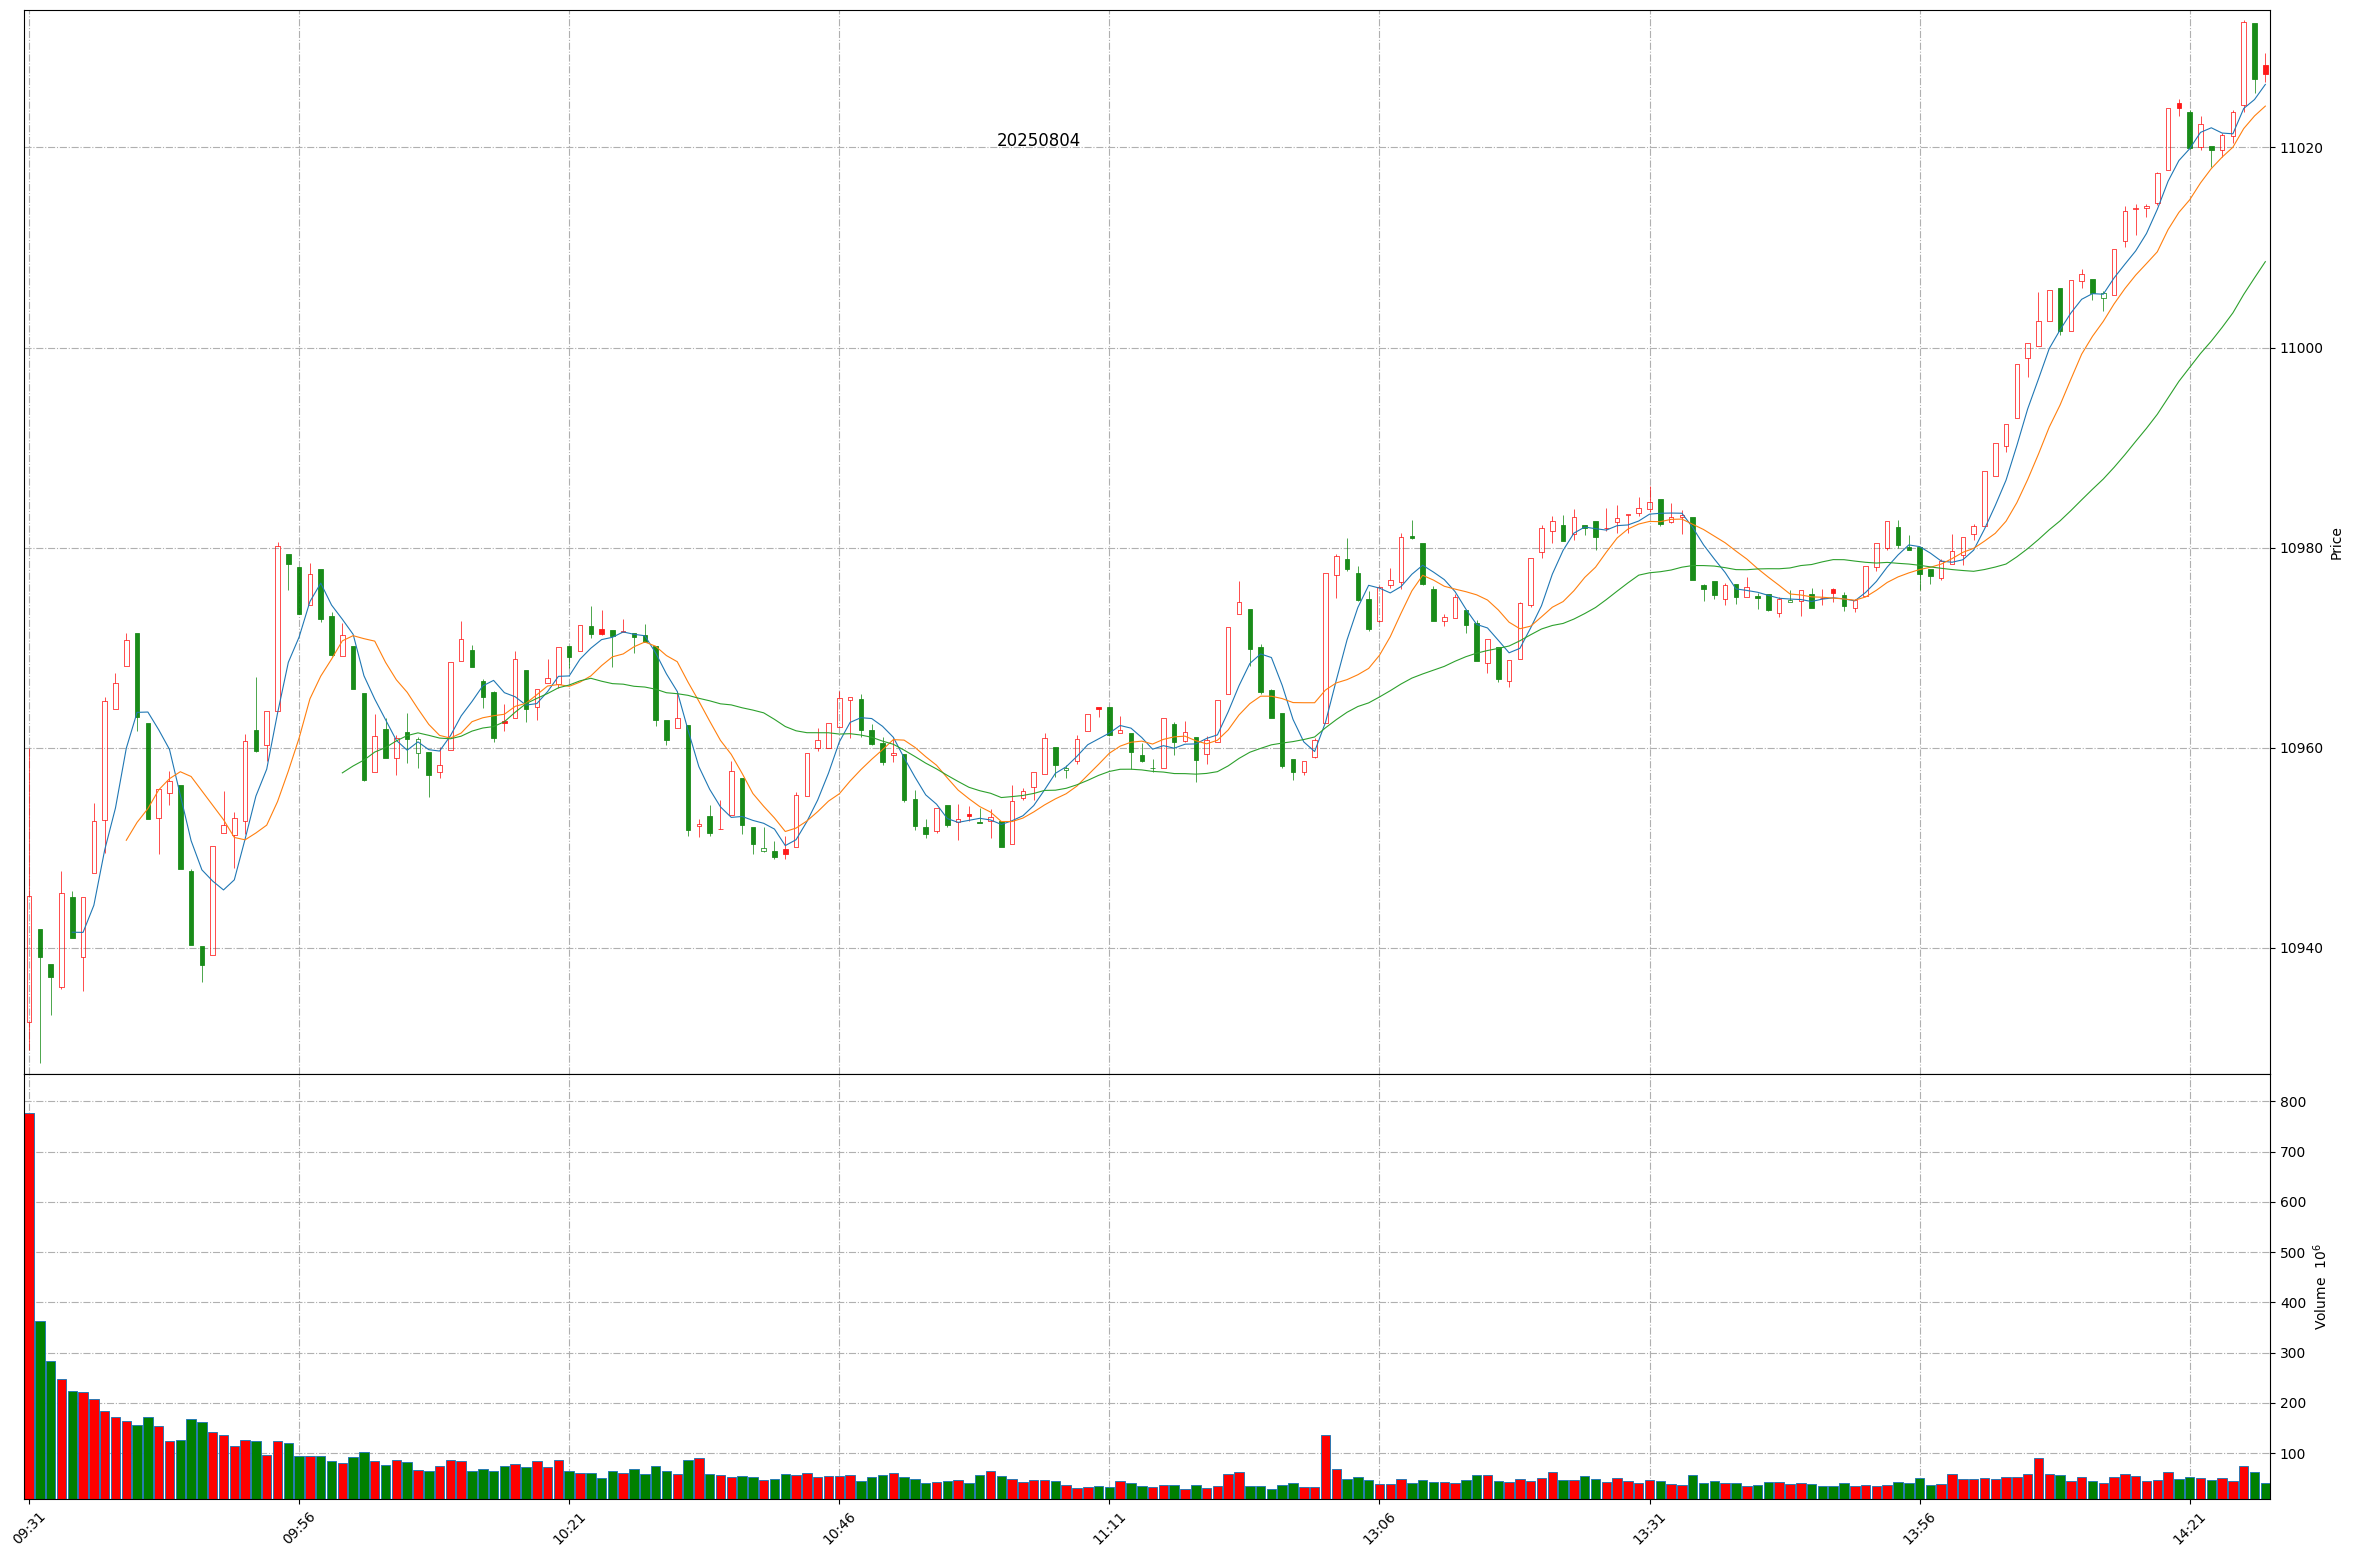
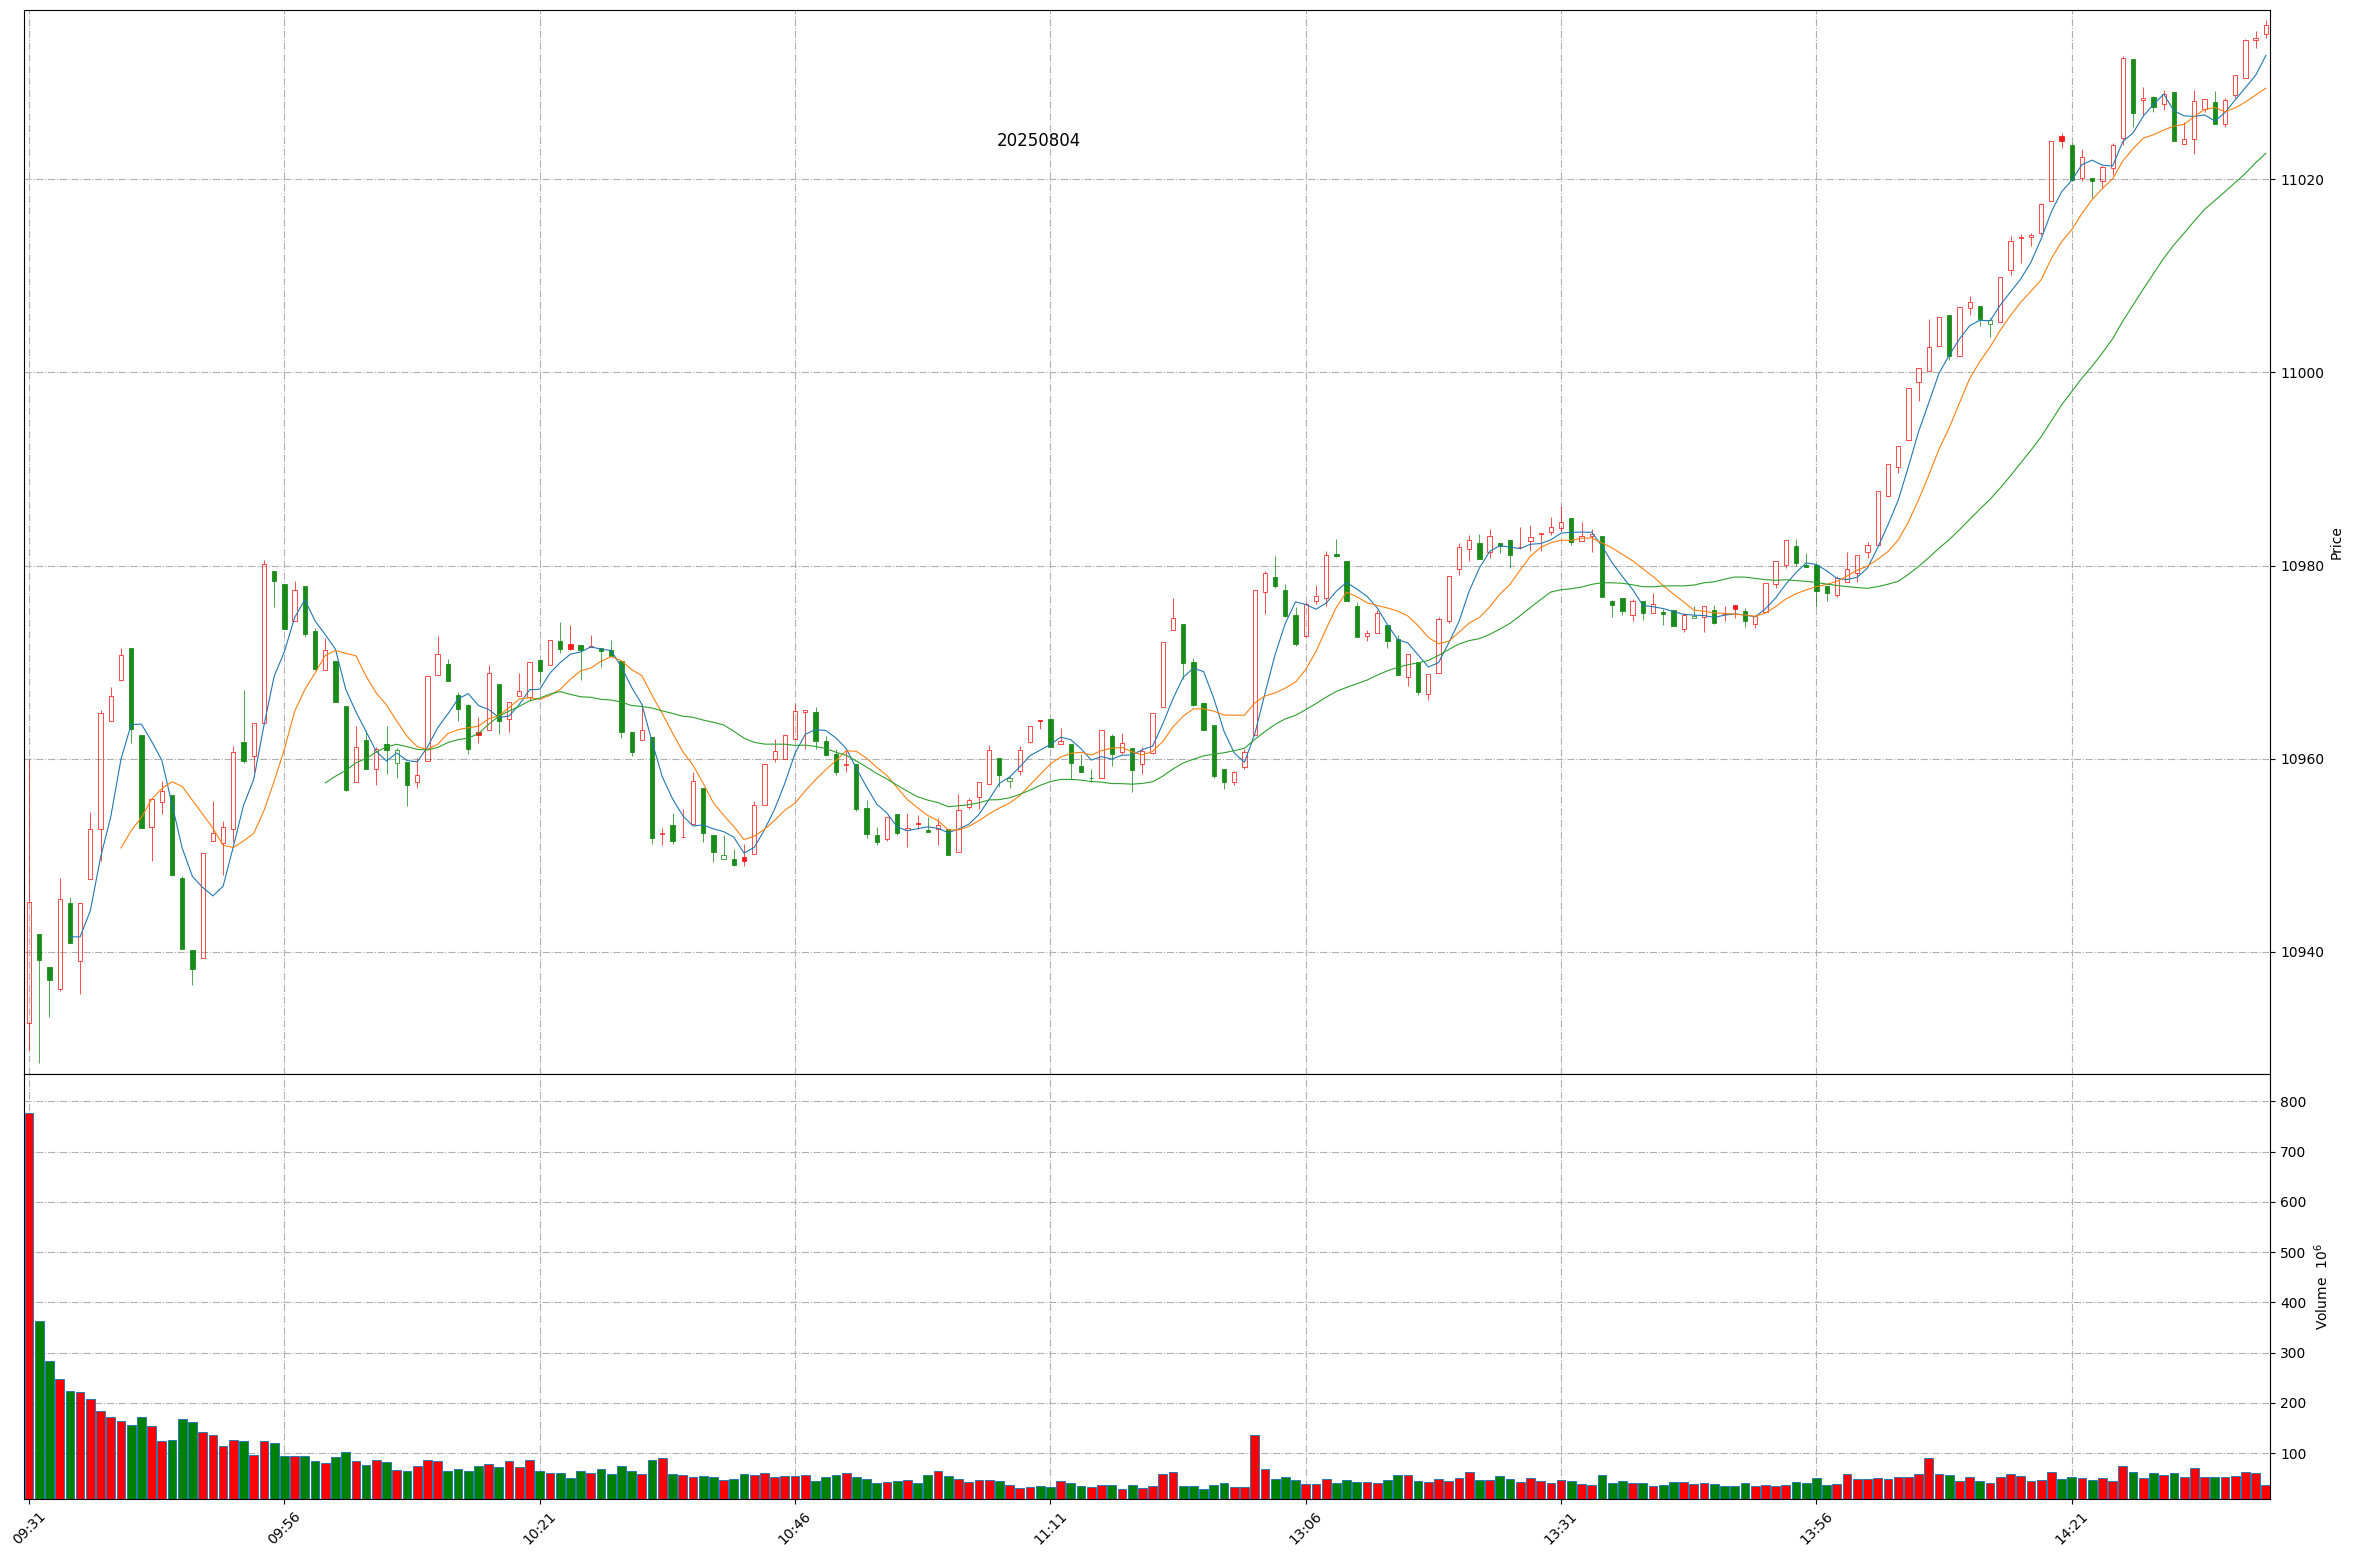
Github action update at 2025-08-04 14:39:43.

diff --git a/README.md b/README.md
@@ -1,11 +1,11 @@
 
 # Daily-A-share-market-quotes 每日 A 股指数（5min 更新）- 20250804
 
-### 上证指数 20250804 14:27
+### 上证指数 20250804 14:39
 ![](./fig/2025/8/20250804-sh000001.png)
 
-### 深证成指 20250804 14:27
+### 深证成指 20250804 14:39
 ![](./fig/2025/8/20250804-sz399001.png)
 
-### 北证50 20250804 14:27
+### 北证50 20250804 14:39
 ![](./fig/2025/8/20250804-bj899050.png)
